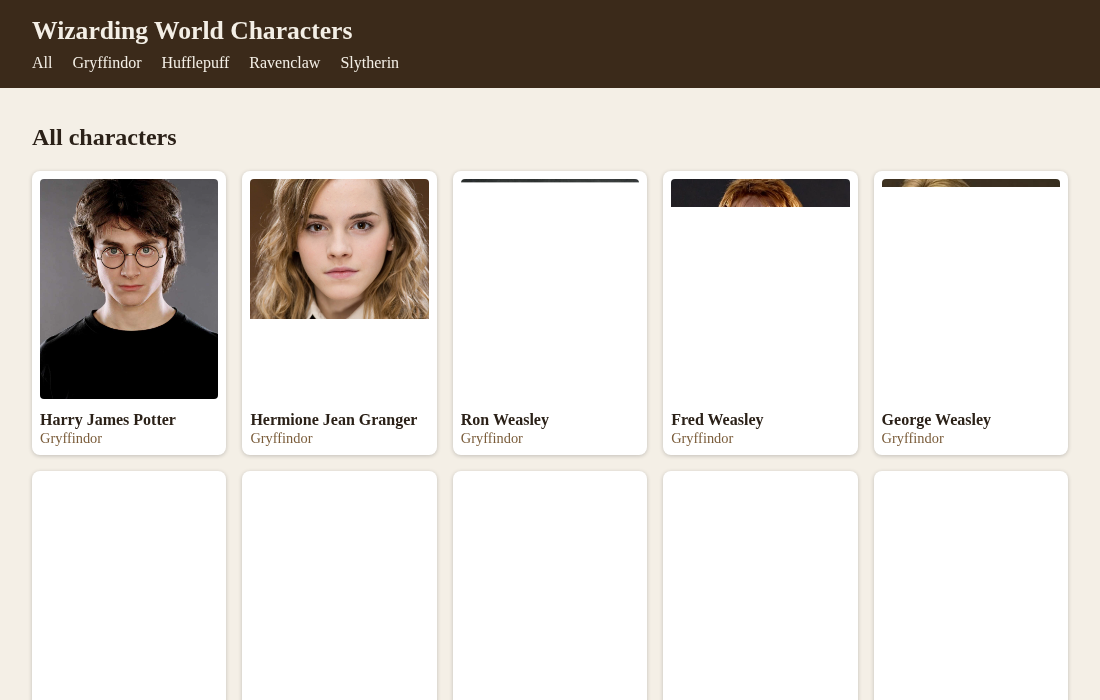
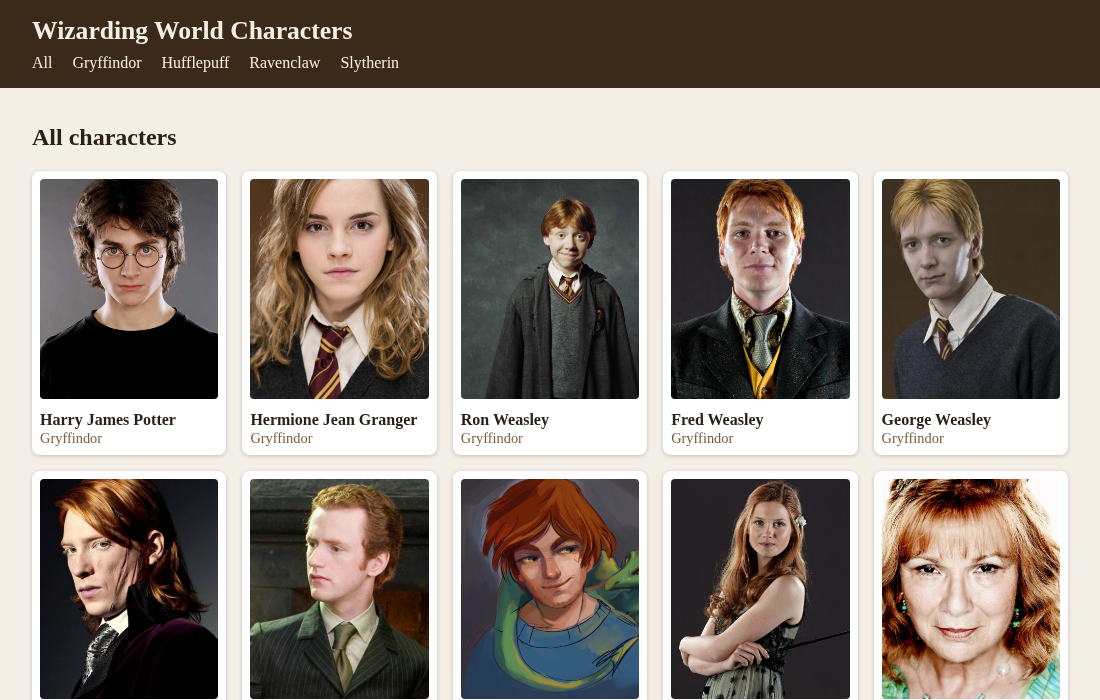
Wait for the pictures before taking screenshots
Steps 2 and 3 showed blank cards because the pictures were still loading.

Task: MIL-004#2

diff --git a/tests/e2e/capture.py b/tests/e2e/capture.py
@@ -6,8 +6,12 @@
 import sys
 from pathlib import Path
 
-from playwright.sync_api import sync_playwright
+from playwright.sync_api import Page, sync_playwright
+from playwright.sync_api import TimeoutError as PlaywrightTimeoutError
 
+NAVIGATION_TIMEOUT_MS = 90000
+IMAGES_TIMEOUT_MS = 60000
+SETTLE_MS = 1000
 API_URL = "https://potterapi-fedeperin.vercel.app/en/characters"
 
 STEPS: list[tuple[str, str]] = [
@@ -17,6 +21,23 @@ STEPS: list[tuple[str, str]] = [
     ("step-4-character-page.png", "http://hp-online:5000/character/0"),
     ("step-5-api-unavailable.png", "http://hp-offline:5000/"),
 ]
+
+
+def wait_for_images(page: Page) -> None:
+    """@brief Wait until every image of the page has finished loading.
+
+    @details A timeout is tolerated, so a missing picture does not abort the run.
+
+    @param page The page that was just opened.
+    """
+    try:
+        page.wait_for_function(
+            "Array.from(document.images).every(i => i.complete)",
+            timeout=IMAGES_TIMEOUT_MS,
+        )
+    except PlaywrightTimeoutError:
+        pass
+    page.wait_for_timeout(SETTLE_MS)
 
 
 def main(out_dir: str) -> None:
@@ -30,8 +51,8 @@ def main(out_dir: str) -> None:
         browser = playwright.chromium.launch()
         page = browser.new_page(viewport={"width": 1100, "height": 700})
         for name, url in STEPS:
-            page.goto(url, wait_until="domcontentloaded", timeout=90000)
-            page.wait_for_timeout(5000)
+            page.goto(url, wait_until="domcontentloaded", timeout=NAVIGATION_TIMEOUT_MS)
+            wait_for_images(page)
             page.screenshot(path=str(target / name))
         browser.close()
 
